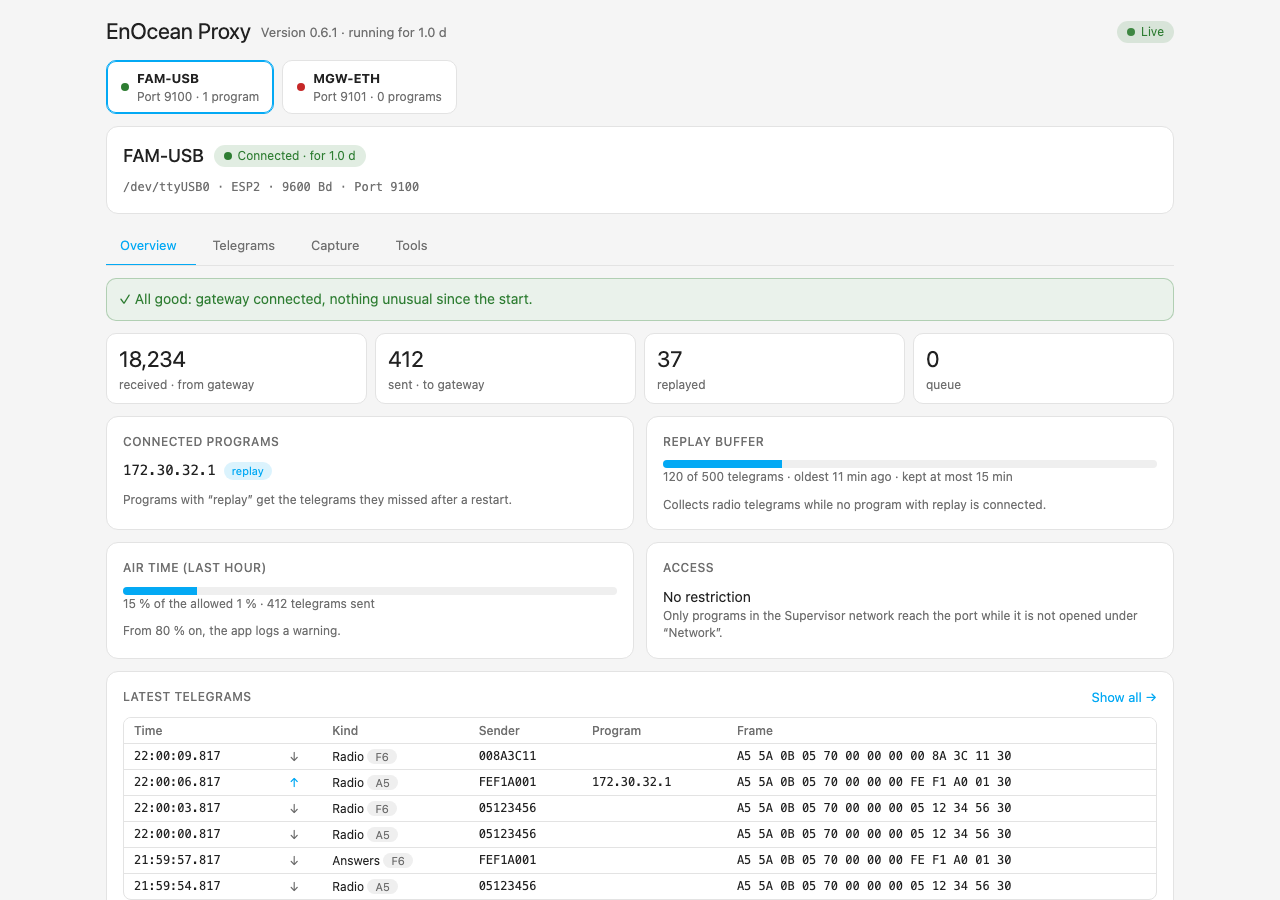
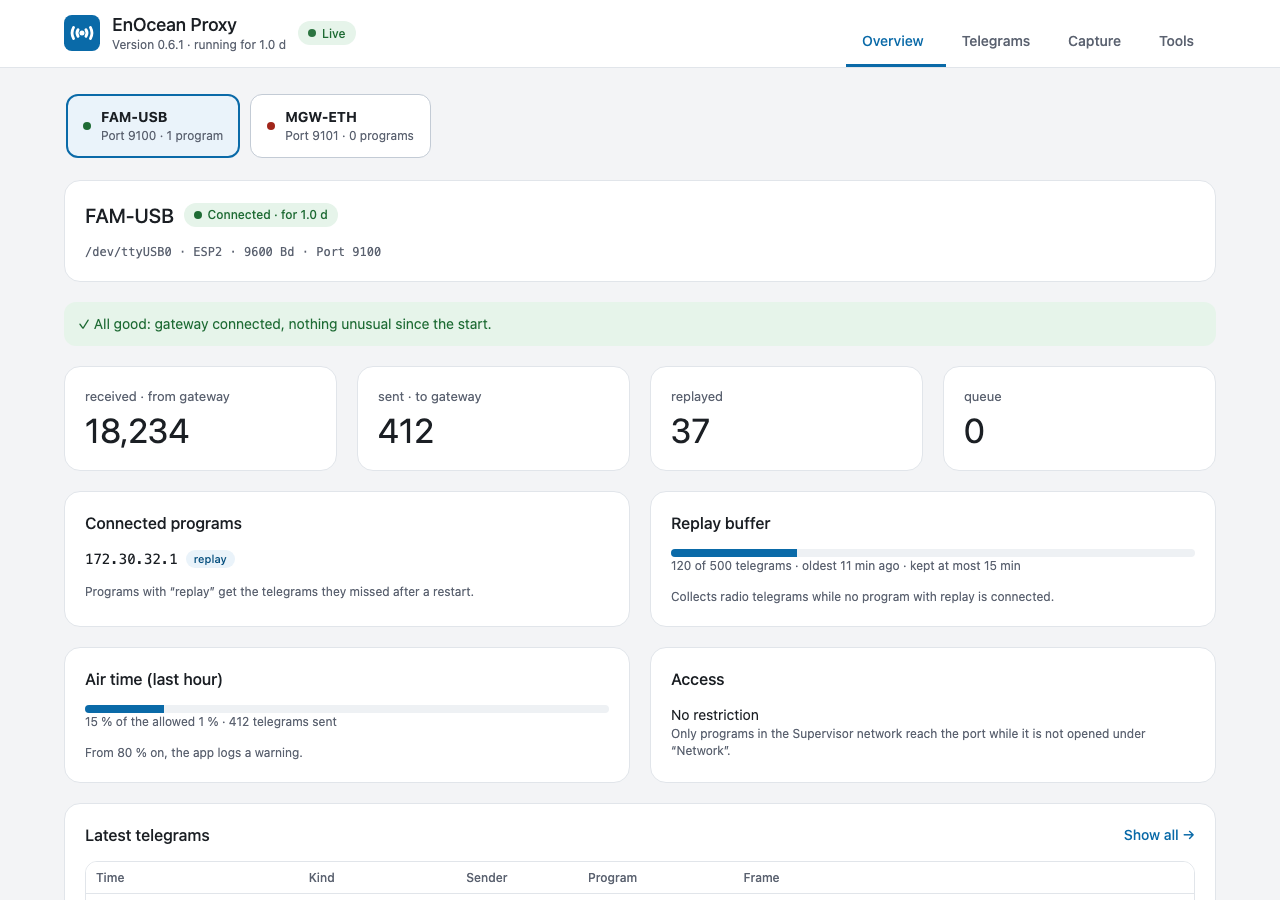
0.6.2: status page in the look of the Device Proxy app

diff --git a/enocean_proxy/app/enocean_proxy/status.html b/enocean_proxy/app/enocean_proxy/status.html
@@ -5,124 +5,135 @@
 <meta name="viewport" content="width=device-width, initial-scale=1">
 <title>EnOcean Proxy</title>
 <style>
+  /* Look of the Device Proxy app: same tokens, cards, chips and buttons; light/dark follows Home Assistant, else the system */
   :root {
-    --bg: #f5f5f5; --surface: #fff; --text: #212121; --muted: #6f6f6f; --line: #e3e3e3;
-    --soft: #efefef; --accent: #03a9f4; --ok: #2e7d32; --bad: #c62828; --warn: #b26a00; --on-strong: #fff;
-    --mono: ui-monospace, SFMono-Regular, Menlo, Consolas, monospace;
-  }
-  @media (prefers-color-scheme: dark) {
-    :root {
-      --bg: #111; --surface: #1c1c1c; --text: #e6e6e6; --muted: #9a9a9a; --line: #2c2c2c;
-      --soft: #262626; --accent: #4fc3f7; --ok: #66bb6a; --bad: #ef5350; --warn: #ffb74d; --on-strong: #111;
-    }
+    color-scheme: light dark;
+    --bg: light-dark(#f3f4f6, #111418); --surface: light-dark(#ffffff, #1b1f24); --surface-2: light-dark(#f5f7f9, #22272e);
+    --line: light-dark(#e1e5ea, #2d333b); --line-2: light-dark(#eef0f3, #262c33); --text: light-dark(#1b1f24, #e6e9ed);
+    --muted: light-dark(#5b6270, #9aa4b1); --accent: light-dark(#0a6aa8, #5bb2ea); --accent-hover: light-dark(#07507f, #8ccaf2);
+    --accent-soft: light-dark(#eaf3fa, #16324a); --ok: light-dark(#1e6b34, #7fd49a); --ok-soft: light-dark(#e6f4ea, #173a24);
+    --warn: light-dark(#8a4b00, #f2c27a); --warn-soft: light-dark(#fff1de, #3a2a12); --warn-line: light-dark(#f3d19e, #6b4a1c);
+    --bad: light-dark(#a1261b, #f2a29a); --bad-soft: light-dark(#fdecea, #3d1c19); --bad-line: light-dark(#f2b8b5, #6e2f2a);
+    --soft: light-dark(#eef1f4, #2a3038); --neutral: light-dark(#3a414c, #c5ccd5); --input-line: light-dark(#c3cbd5, #3a424c);
+    --focus: #7db8e0; --on-strong: light-dark(#ffffff, #0b1a26);
+    --mono: "Roboto Mono", ui-monospace, SFMono-Regular, Menlo, Consolas, monospace;
   }
   * { box-sizing: border-box; }
   [hidden] { display: none !important; }
-  body { margin: 0; background: var(--bg); color: var(--text);
-    font: 14px/1.45 Roboto, "Segoe UI", system-ui, sans-serif; }
-  main { max-width: 1100px; margin: 0 auto; padding: 16px; display: grid; gap: 12px; }
-  h1 { margin: 0; font-size: 22px; font-weight: 400; }
-  h2 { margin: 0; font-size: 18px; font-weight: 500; }
-  h3 { margin: 0; font-size: 12px; font-weight: 500; text-transform: uppercase;
-    letter-spacing: .04em; color: var(--muted); }
+  body { margin: 0; background: var(--bg); color: var(--text); font: 14px/1.45 Roboto, "Noto Sans", system-ui, -apple-system, sans-serif; }
+  main { max-width: 1200px; margin: 0 auto; padding: 24px 24px 48px; display: grid; gap: 20px; }
+  h2 { margin: 0; font-size: 20px; font-weight: 500; }
+  h3 { margin: 0; font-size: 16px; font-weight: 500; }
   p { margin: 0; }
   .muted { color: var(--muted); }
   .mono { font-family: var(--mono); }
   .note { font-size: 12px; color: var(--muted); }
   .error { color: var(--bad); }
-  .row { display: flex; flex-wrap: wrap; gap: 8px; align-items: center; }
+  .row { display: flex; flex-wrap: wrap; gap: 12px; align-items: center; }
   .spacer { flex: 1; }
-  .card { background: var(--surface); border: 1px solid var(--line); border-radius: 12px;
-    padding: 16px; display: grid; gap: 10px; min-width: 0; align-content: start; }
-  .stack { display: grid; gap: 12px; }
-  .grid2 { display: grid; grid-template-columns: repeat(2, minmax(0, 1fr)); gap: 12px; }
+  .card { background: var(--surface); border: 1px solid var(--line); border-radius: 16px; padding: 20px;
+    display: flex; flex-direction: column; gap: 14px; min-width: 0; }
+  .stack { display: flex; flex-direction: column; gap: 20px; }
+  .grid2 { display: grid; grid-template-columns: repeat(2, minmax(0, 1fr)); gap: 20px; }
 
-  /* header */
-  .app { display: flex; align-items: center; gap: 10px; flex-wrap: wrap; }
-  .app .meta { font-size: 13px; color: var(--muted); }
+  /* header: logo, name, state; the tabs sit on the right like the Device Proxy's navigation */
+  header.top { background: var(--surface); border-bottom: 1px solid var(--line); }
+  .topbar { max-width: 1200px; margin: 0 auto; padding: 0 24px; display: flex; flex-wrap: wrap; align-items: flex-end;
+    justify-content: space-between; gap: 0 24px; }
+  .brand { display: flex; align-items: center; flex-wrap: wrap; gap: 12px; padding: 14px 0; }
+  .brand b { font-size: 18px; display: block; line-height: 1.2; font-weight: 500; }
+  .brand .meta { font-size: 12px; color: var(--muted); }
+  .brand #capflag:empty { display: none; }
 
-  /* pills, dots, tags */
-  .pill { display: inline-flex; align-items: center; gap: 6px; padding: 2px 10px; border-radius: 999px;
-    font-size: 12px; background: var(--soft); color: var(--muted); white-space: nowrap; border: 0; }
+  /* chips, dots, tags */
+  .pill { display: inline-flex; align-items: center; gap: 6px; min-height: 24px; padding: 0 10px; border-radius: 12px;
+    font-size: 12px; font-weight: 500; background: var(--soft); color: var(--neutral); white-space: nowrap; border: 0; }
   .pill i, .dot { width: 8px; height: 8px; border-radius: 50%; background: currentColor; flex: none; display: inline-block; }
   .ok { color: var(--ok); } .bad { color: var(--bad); } .warn { color: var(--warn); } .info { color: var(--accent); }
-  .pill.ok { background: color-mix(in srgb, var(--ok) 14%, transparent); }
-  .pill.bad { background: color-mix(in srgb, var(--bad) 14%, transparent); }
-  .pill.warn { background: color-mix(in srgb, var(--warn) 16%, transparent); }
-  .pill.info { background: color-mix(in srgb, var(--accent) 14%, transparent); }
+  .pill.ok { background: var(--ok-soft); } .pill.bad { background: var(--bad-soft); }
+  .pill.warn { background: var(--warn-soft); } .pill.info { background: var(--accent-soft); color: var(--accent-hover); }
   .live i { animation: pulse 1.6s infinite; }
   .live.bad i { animation: none; }
   @keyframes pulse { 50% { opacity: .3; } }
   @media (prefers-reduced-motion: reduce) { .live i { animation: none; } }
-  .tag { font-size: 11px; padding: 1px 8px; border-radius: 999px; background: var(--soft); color: var(--muted); white-space: nowrap; }
-  .tag.accent { color: var(--accent); background: color-mix(in srgb, var(--accent) 14%, transparent); }
-  .tag.warn { color: var(--warn); background: color-mix(in srgb, var(--warn) 16%, transparent); }
+  .tag { font-size: 11px; font-weight: 500; padding: 1px 8px; border-radius: 10px; background: var(--soft); color: var(--neutral); white-space: nowrap; }
+  .tag.accent { color: var(--accent-hover); background: var(--accent-soft); }
+  .tag.warn { color: var(--warn); background: var(--warn-soft); }
 
   /* controls */
-  button, select, input { font: inherit; font-size: 13px; color: var(--text); }
-  button, select { background: var(--soft); border: 1px solid var(--line); border-radius: 999px;
-    padding: 5px 14px; cursor: pointer; }
+  button, select, input { font: inherit; font-size: 14px; color: var(--text); }
+  button, select { background: var(--surface); border: 1px solid var(--input-line); border-radius: 20px;
+    min-height: 40px; padding: 0 18px; font-weight: 500; cursor: pointer; }
+  button:hover:not(:disabled) { background: var(--accent-soft); color: var(--accent-hover); }
+  select { font-weight: 400; border-radius: 10px; padding: 0 12px; min-height: 42px; }
   button.primary { background: var(--accent); color: var(--on-strong); border-color: transparent; }
-  button.danger { color: var(--bad); border-color: color-mix(in srgb, var(--bad) 40%, var(--line)); }
+  button.primary:hover:not(:disabled) { background: var(--accent-hover); color: var(--on-strong); }
+  button.danger { color: var(--bad); border-color: var(--bad-line); }
+  button.danger:hover:not(:disabled) { background: var(--bad-soft); color: var(--bad); }
   button.danger.solid { background: var(--bad); color: var(--on-strong); border-color: transparent; }
-  button.link { background: none; border: 0; padding: 0; color: var(--accent); border-radius: 4px; }
-  button.icon { padding: 2px 8px; font-size: 12px; }
-  button:disabled { opacity: .5; cursor: default; }
-  button[aria-pressed="true"] { color: var(--accent); border-color: var(--accent); }
-  input[type=text], input[type=search] { background: var(--surface); border: 1px solid var(--line);
-    border-radius: 8px; padding: 6px 10px; min-width: 0; }
-  label.field { display: grid; gap: 4px; font-size: 12px; color: var(--muted); min-width: 0; }
+  button.link { background: none; border: 0; padding: 0; min-height: 0; color: var(--accent); border-radius: 4px; font-weight: 500; }
+  button.link:hover:not(:disabled) { background: none; color: var(--accent-hover); }
+  button.icon { min-height: 28px; padding: 0 10px; font-size: 12px; border-radius: 14px; }
+  button:disabled { opacity: .55; cursor: default; }
+  button[aria-pressed="true"] { background: var(--accent-soft); color: var(--accent-hover); border-color: var(--accent); }
+  input[type=text], input[type=search] { background: var(--surface); border: 1px solid var(--input-line);
+    border-radius: 10px; min-height: 42px; padding: 0 12px; min-width: 0; }
+  label.field { display: flex; flex-direction: column; gap: 6px; font-size: 12px; font-weight: 500; color: var(--muted); min-width: 0; }
   label.field select { max-width: 100%; }
-  :focus-visible { outline: 2px solid var(--accent); outline-offset: 2px; }
+  :focus-visible { outline: 3px solid var(--focus); outline-offset: 2px; }
   a { color: var(--accent); }
+  a:hover { color: var(--accent-hover); }
 
   /* gateway switcher and tabs */
-  .switcher { display: flex; gap: 8px; overflow-x: auto; scrollbar-width: none; }
-  .gwchip { display: flex; align-items: center; gap: 8px; border-radius: 10px; padding: 8px 14px;
-    background: var(--surface); border: 1px solid var(--line); white-space: nowrap; text-align: left; }
-  .gwchip[aria-selected="true"] { border-color: var(--accent); box-shadow: inset 0 0 0 1px var(--accent); }
+  .switcher { display: flex; gap: 10px; overflow-x: auto; scrollbar-width: none; padding: 2px; }
+  .gwchip { display: flex; align-items: center; gap: 10px; border-radius: 12px; padding: 12px 16px; min-height: 60px;
+    background: var(--surface); border: 1px solid var(--input-line); white-space: nowrap; text-align: left; font-weight: 400; }
+  .gwchip[aria-selected="true"] { background: var(--accent-soft); border: 2px solid var(--accent); padding: 11px 15px; }
   .gwchip small { color: var(--muted); font-size: 12px; }
   .gwhead .title { display: flex; align-items: center; gap: 10px; flex-wrap: wrap; }
   .gwhead .sub { font-size: 12px; color: var(--muted); overflow-wrap: anywhere; font-family: var(--mono); }
-  .tabs { display: flex; gap: 2px; border-bottom: 1px solid var(--line); overflow-x: auto; scrollbar-width: none; }
-  .tabs button { border: 0; border-radius: 0; background: none; padding: 10px 14px; color: var(--muted);
-    border-bottom: 2px solid transparent; margin-bottom: -1px; white-space: nowrap; display: inline-flex; gap: 6px; align-items: center; }
+  .tabs { display: flex; flex-wrap: wrap; }
+  .tabs button { border: 0; border-radius: 0; background: none; min-height: 48px; padding: 0 16px; color: var(--muted);
+    border-bottom: 3px solid transparent; white-space: nowrap; display: inline-flex; gap: 6px; align-items: center; }
+  .tabs button:hover:not(:disabled) { background: none; color: var(--text); }
   .tabs button[aria-selected="true"] { color: var(--accent); border-bottom-color: var(--accent); }
-  .badge { font-size: 11px; min-width: 18px; padding: 0 6px; border-radius: 999px; text-align: center;
-    background: var(--soft); color: var(--muted); }
-  .badge.warn { background: color-mix(in srgb, var(--warn) 18%, transparent); color: var(--warn); }
-  .badge.bad { background: color-mix(in srgb, var(--bad) 16%, transparent); color: var(--bad); }
+  .badge { font-size: 11px; min-width: 18px; padding: 0 6px; border-radius: 9px; text-align: center; background: var(--soft); color: var(--neutral); }
+  .badge.warn { background: var(--warn-soft); color: var(--warn); }
+  .badge.bad { background: var(--bad-soft); color: var(--bad); }
 
   /* overview */
-  .health { list-style: none; margin: 0; padding: 0; display: grid; gap: 8px; }
-  .health li { display: flex; gap: 10px; align-items: flex-start; padding: 10px 12px; border-radius: 10px;
-    background: var(--surface); border: 1px solid var(--line); border-left: 4px solid currentColor; }
+  .health { list-style: none; margin: 0; padding: 0; display: grid; gap: 10px; }
+  .health li { display: flex; gap: 10px; align-items: flex-start; padding: 12px 14px; border-radius: 12px; border: 1px solid transparent; }
+  .health li.bad { background: var(--bad-soft); border-color: var(--bad-line); }
+  .health li.warn { background: var(--warn-soft); border-color: var(--warn-line); }
+  .health li.info { background: var(--accent-soft); color: var(--accent-hover); }
   .health li > div { color: var(--text); }
   .health .dot { margin-top: 6px; }
-  .allgood { padding: 10px 12px; border-radius: 10px; color: var(--ok);
-    background: color-mix(in srgb, var(--ok) 10%, var(--surface)); border: 1px solid color-mix(in srgb, var(--ok) 30%, transparent); }
-  .metrics { display: grid; grid-template-columns: repeat(4, minmax(0, 1fr)); gap: 8px; }
-  .metric { background: var(--surface); border: 1px solid var(--line); border-radius: 10px; padding: 10px 12px; }
-  .metric b { display: block; font-size: 22px; font-weight: 400; }
-  .metric span { font-size: 12px; color: var(--muted); }
+  .allgood { padding: 12px 14px; border-radius: 12px; color: var(--ok); background: var(--ok-soft); }
+  .metrics { display: grid; grid-template-columns: repeat(4, minmax(0, 1fr)); gap: 20px; }
+  .metric { background: var(--surface); border: 1px solid var(--line); border-radius: 16px; padding: 20px;
+    display: flex; flex-direction: column-reverse; gap: 6px; }
+  .metric b { display: block; font-size: 34px; font-weight: 400; line-height: 1.1; }
+  .metric span { font-size: 13px; color: var(--muted); }
   .metric.warn b { color: var(--warn); }
   .bar { height: 8px; border-radius: 4px; background: var(--soft); overflow: hidden; }
   .bar > div { height: 100%; background: var(--accent); }
-  ul.plain { list-style: none; margin: 0; padding: 0; display: grid; gap: 6px; }
+  ul.plain { list-style: none; margin: 0; padding: 0; display: grid; gap: 8px; }
   ul.plain li { display: flex; gap: 8px; align-items: center; flex-wrap: wrap; }
   .cardhead { display: flex; align-items: center; gap: 8px; }
   .cardhead h3 { flex: 1; }
 
   /* frames */
-  .mtools { display: flex; flex-wrap: wrap; gap: 8px; align-items: center; }
+  .mtools { display: flex; flex-wrap: wrap; gap: 10px; align-items: center; }
   .mtools input[type=search] { flex: 1 1 200px; }
-  .seg { display: inline-flex; flex-wrap: wrap; gap: 4px; }
+  .seg { display: inline-flex; flex-wrap: wrap; gap: 8px; }
+  .seg button { min-height: 34px; padding: 0 14px; font-size: 13px; }
   .seg button small { color: var(--muted); margin-left: 4px; }
-  .frames { overflow: auto; max-height: 60vh; border: 1px solid var(--line); border-radius: 8px; }
+  .frames { overflow: auto; max-height: 60vh; border: 1px solid var(--line); border-radius: 12px; }
   .frames.short { max-height: none; }
   table { border-collapse: collapse; width: 100%; font-size: 12px; }
-  td, th { padding: 5px 10px; border-top: 1px solid var(--line); text-align: left; white-space: nowrap; vertical-align: middle; }
-  th { border-top: 0; color: var(--muted); font-weight: 500; position: sticky; top: 0; background: var(--surface); z-index: 1; }
+  td, th { padding: 8px 10px; border-top: 1px solid var(--line-2); text-align: left; white-space: nowrap; vertical-align: middle; }
+  th { border-top: 0; border-bottom: 1px solid var(--line); color: var(--muted); font-weight: 500; position: sticky; top: 0; background: var(--surface); z-index: 1; }
   td.hex { font-family: var(--mono); white-space: normal; overflow-wrap: anywhere; min-width: 16ch; }
   td.act { text-align: right; }
   .rx { color: var(--muted); } .tx { color: var(--accent); }
@@ -131,10 +142,9 @@
   /* tools */
   .check { font-size: 12px; display: flex; gap: 8px; align-items: center; flex-wrap: wrap; min-height: 20px; }
   .hexin { flex: 1 1 280px; font-family: var(--mono); }
-  .caution { font-size: 12px; padding: 8px 10px; border-radius: 8px; color: var(--text);
-    background: color-mix(in srgb, var(--bad) 8%, var(--surface)); border: 1px solid color-mix(in srgb, var(--bad) 25%, transparent); }
+  .caution { font-size: 13px; padding: 12px 14px; border-radius: 12px; color: var(--bad); background: var(--bad-soft); border: 1px solid var(--bad-line); }
   .history { list-style: none; margin: 0; padding: 0; display: grid; gap: 4px; font-size: 12px; }
-  .history li { display: grid; grid-template-columns: auto 1fr; gap: 0 10px; padding: 6px 0; border-top: 1px solid var(--line); }
+  .history li { display: grid; grid-template-columns: auto 1fr; gap: 0 10px; padding: 8px 0; border-top: 1px solid var(--line-2); }
   .history .mono { overflow-wrap: anywhere; }
   .result { font-size: 13px; }
   .runbox { border-left: 4px solid var(--warn); }
@@ -145,16 +155,18 @@
 
   body.stale #content { opacity: .55; }
 
+  @media (max-width: 900px) { .metrics { grid-template-columns: repeat(2, minmax(0, 1fr)); } }
   @media (max-width: 640px) {
-    main { padding: 12px 16px; }
+    main, .topbar { padding-left: 16px; padding-right: 16px; }
     .grid2 { grid-template-columns: minmax(0, 1fr); }
-    .tabs button { padding: 10px 9px; }
-    .metrics { grid-template-columns: repeat(2, minmax(0, 1fr)); gap: 6px; }
-    .metric b { font-size: 18px; }
+    .tabs button { padding: 0 10px; }
+    .metrics { gap: 12px; }
+    .metric { padding: 14px; }
+    .metric b { font-size: 26px; }
     .frames table, .frames tbody, .frames tr, .frames td { display: block; }
     .frames thead { display: none; }
     .frames tr { display: grid; grid-template-columns: auto auto 1fr auto; gap: 2px 8px; padding: 8px 10px;
-      border-top: 1px solid var(--line); align-items: center; }
+      border-top: 1px solid var(--line-2); align-items: center; }
     .frames td { border: 0; padding: 0; white-space: nowrap; }
     .frames td.hex { grid-column: 1 / -1; }
     .frames td.peer:empty, .frames td.sender:empty { display: none; }
@@ -163,22 +175,38 @@
 </style>
 </head>
 <body>
-<main>
-  <header class="app">
-    <h1>EnOcean Proxy</h1>
-    <span class="meta" id="meta"></span>
-    <span class="spacer"></span>
+<header class="top"><div class="topbar">
+  <div class="brand">
[1 lines of base64/hex data omitted]
+    <div><b>EnOcean Proxy</b><span class="meta" id="meta"></span></div>
     <span id="capflag"></span>
     <span class="pill live" id="live" role="status"><i></i><span></span></span>
-  </header>
+  </div>
+  <nav class="tabs" id="tabs" role="tablist" hidden></nav>
+</div></header>
+<main>
   <div id="content" class="stack">
     <nav class="switcher" id="gws" role="tablist" hidden></nav>
     <section class="card gwhead" id="gwhead" hidden></section>
-    <nav class="tabs" id="tabs" role="tablist" hidden></nav>
     <section id="panel" class="stack" role="tabpanel"></section>
   </div>
 </main>
 <script>
+// dark or light as Home Assistant has it (same origin iframe); without it the system's setting stays
+function applyTheme() {
+  try {
+    if (!window.parent || window.parent === window) return;
+    const color = window.parent.getComputedStyle(window.parent.document.documentElement).getPropertyValue("--primary-background-color").trim();
+    if (!color) return;
+    const probe = Object.assign(document.createElement("span"), {});
+    probe.style.color = color; document.body.append(probe);
+    const rgb = getComputedStyle(probe).color.match(/\d+(\.\d+)?/g); probe.remove();
+    if (!rgb || rgb.length < 3) return;
+    const [r, g, b] = rgb.slice(0, 3).map(Number);
+    document.documentElement.style.colorScheme = (0.2126 * r + 0.7152 * g + 0.0722 * b) / 255 < 0.5 ? "dark" : "light";
+  } catch (err) { /* another origin: not readable */ }
+}
+applyTheme();
 const DE = (navigator.language || "en").toLowerCase().startsWith("de");
 const T = DE ? {
   version: "Version", running: "läuft seit", live: "Live", offline: "Keine Verbindung zur App", asOf: "Stand {time}",
@@ -849,7 +877,7 @@ document.addEventListener("keydown", (e) => {
 document.addEventListener("visibilitychange", () => { if (!document.hidden) refresh(true); });
 renderHeader();
 refresh(true);
-setInterval(refresh, 2000);
+setInterval(() => { applyTheme(); refresh(); }, 2000);
 </script>
 </body>
 </html>

diff --git a/enocean_proxy/CHANGELOG.md b/enocean_proxy/CHANGELOG.md
@@ -1,5 +1,11 @@
 # Changelog
 
+## 0.6.2
+
+- Status page in the look of the Device Proxy app: same colours (light and dark, follows
+  Home Assistant's theme), cards, chips and buttons, a header bar with the app icon and the
+  tabs on the right.
+
 ## 0.6.1
 
 - Installs and updates pull a prebuilt image (`ghcr.io/bertel2020/{arch}-enocean-proxy`)
